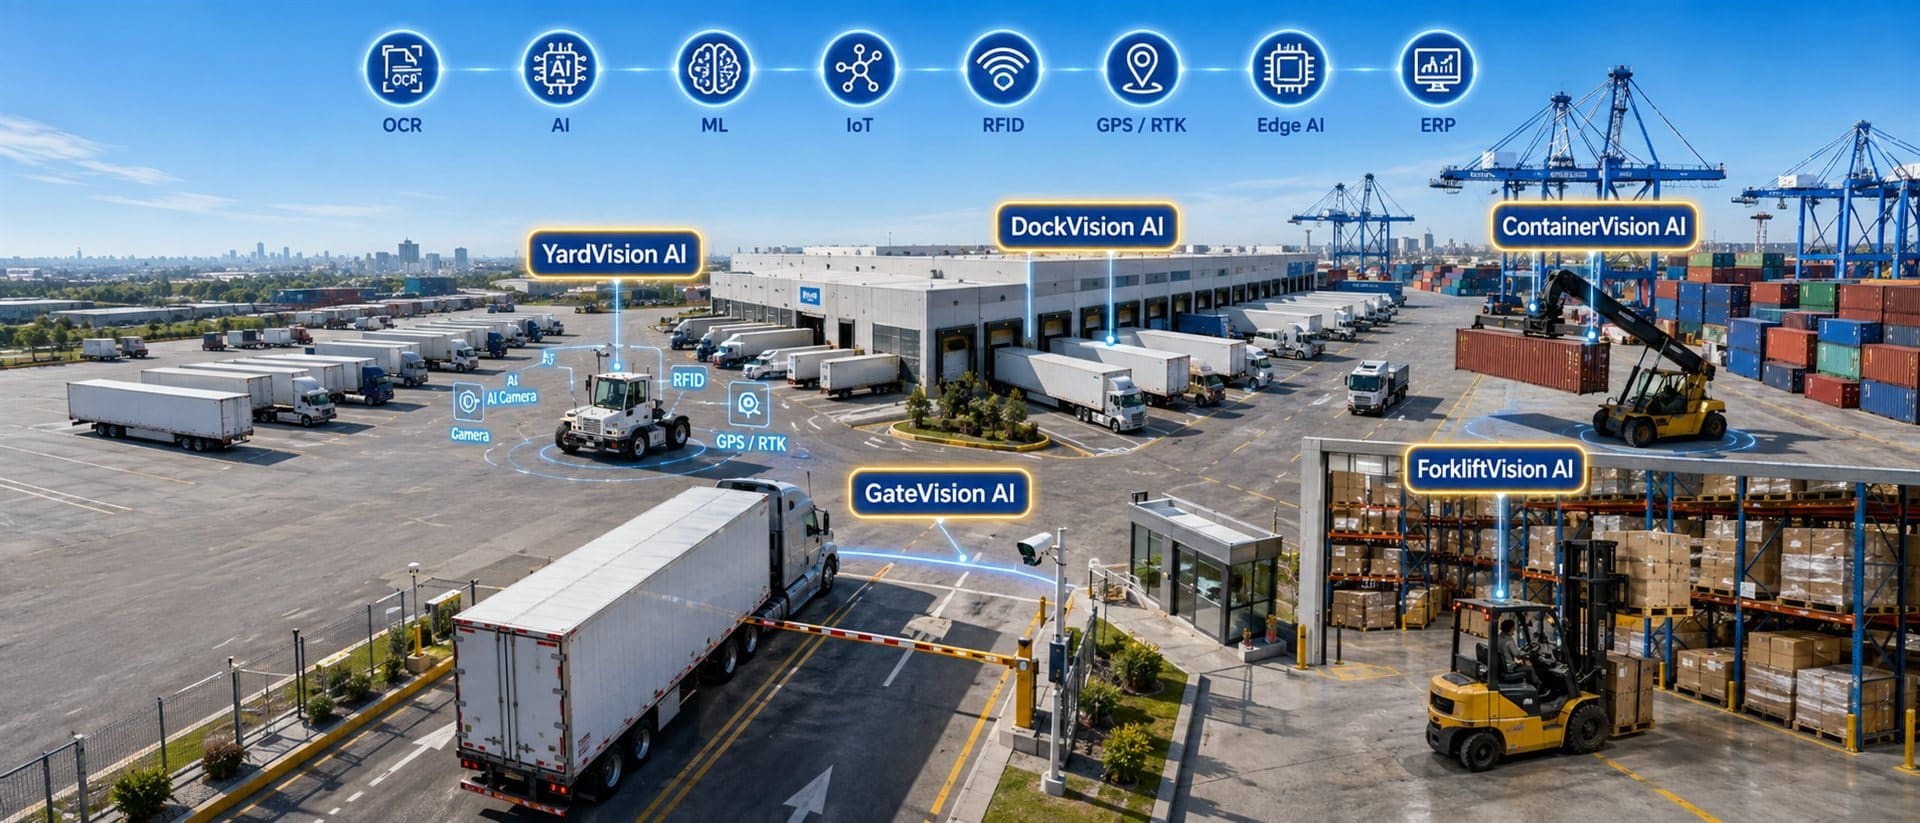
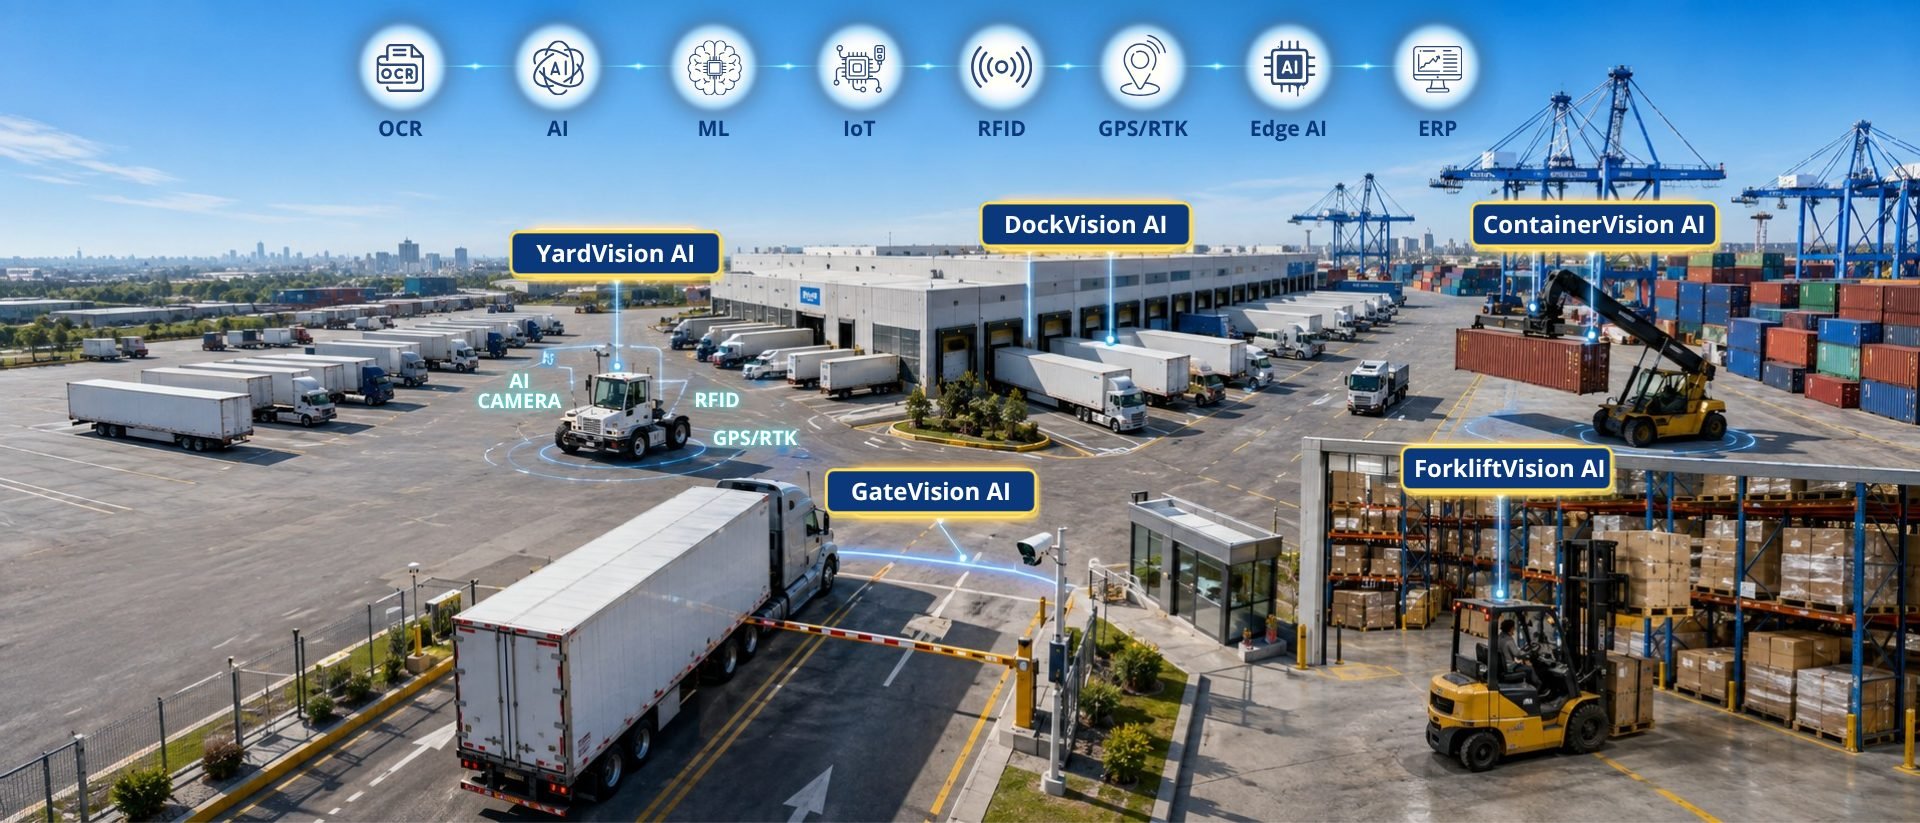
Update hero slide 1 image and increase its title text size
- Swap slide 1 background for the new provided image, compressed
  from ~3.3MB to ~310KB to keep LCP fast
- Increase slide 1's title text size one step at each breakpoint
  (slides 2-7 unchanged)

diff --git a/src/components/sections/Hero.jsx b/src/components/sections/Hero.jsx
@@ -143,7 +143,7 @@ export default function Hero() {
                   scroll={false}
                   text={slide.title}
                   highlightWords={slide.highlightWords}
-                  className="text-xl md:text-2xl xl:text-3xl font-heading font-bold leading-tight text-white text-center [text-shadow:0_1px_2px_rgba(0,0,0,1),0_2px_8px_rgba(0,0,0,0.95),0_4px_24px_rgba(0,0,0,0.9)]"
+                  className="text-2xl md:text-3xl xl:text-4xl font-heading font-bold leading-tight text-white text-center [text-shadow:0_1px_2px_rgba(0,0,0,1),0_2px_8px_rgba(0,0,0,0.95),0_4px_24px_rgba(0,0,0,0.9)]"
                 />
               </div>
 
@@ -180,7 +180,7 @@ export default function Hero() {
                   scroll={false}
                   text={slide.title}
                   highlightWords={slide.highlightWords}
-                  className="text-3xl md:text-4xl font-heading font-bold leading-tight text-white [text-shadow:0_4px_24px_rgba(0,0,0,0.9)]"
+                  className="text-4xl md:text-5xl font-heading font-bold leading-tight text-white [text-shadow:0_4px_24px_rgba(0,0,0,0.9)]"
                 />
               </div>
 
